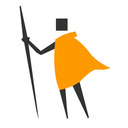
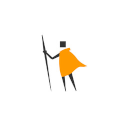
add shepherd and doggo(not work)

Changed region(s): [[0.125, 0.0312, 0.875, 0.9375]]

diff --git a/Project_SDL_Part1_base/Project_SDL1.cpp b/Project_SDL_Part1_base/Project_SDL1.cpp
@@ -23,8 +23,8 @@ void init() {
                              std::string(IMG_GetError()));
 }
 
-SDL_Surface *load_image(const std::string& file_path){
-  SDL_Surface *image_ptr_ = IMG_Load(file_path.c_str());
+SDL_Surface* load_image(const std::string& file_path) {
+  SDL_Surface* image_ptr_ = IMG_Load(file_path.c_str());
   if (!image_ptr_) {
     std::cout << "OOPS! The image " << file_path
               << " could not have been loaded" << std::endl;
@@ -227,6 +227,61 @@ void wolf::move() {
   }
 }
 
+shepherd::shepherd(SDL_Surface* window_surface_ptr) { // Ajout du berger
+  image_ptr_ = load_image("./media/shepherd.png");
+  window_surface_ptr_ = window_surface_ptr;
+  position_.x = 100;
+  position_.y = 100;
+  position_.w = image_ptr_->w / 2;
+  position_.h = image_ptr_->h / 2;
+}
+
+shepherd::~shepherd() { SDL_FreeSurface(image_ptr_); }
+
+void shepherd::move(const SDL_Event& event, bool keys[322]) {
+  // Gestion des touches
+  if (event.type == SDL_KEYDOWN) {
+    keys[event.key.keysym.scancode] = true;
+  } else if (event.type == SDL_KEYUP) {
+    keys[event.key.keysym.scancode] = false;
+  }
+
+  if (keys[SDL_SCANCODE_UP] || keys[SDL_SCANCODE_W]) // W -> Z on AZERTY
+  {
+    if (position_.y > 0)
+      position_.y -= 3;
+  }
+  if (keys[SDL_SCANCODE_DOWN] || keys[SDL_SCANCODE_S]) {
+    if (position_.y < frame_height - position_.h)
+      position_.y += 3;
+  }
+  if (keys[SDL_SCANCODE_LEFT] || keys[SDL_SCANCODE_A]) // A -> Q on AZERTY
+  {
+    if (position_.x > 0)
+      position_.x -= 3;
+  }
+  if (keys[SDL_SCANCODE_RIGHT] || keys[SDL_SCANCODE_D]) {
+    if (position_.x < frame_width - position_.w)
+      position_.x += 3;
+  }
+
+  SDL_BlitScaled(image_ptr_, NULL, window_surface_ptr_, &position_);
+}
+
+shepherd_dog::shepherd_dog(SDL_Surface* window_surface_ptr,
+                           const shepherd& master) {
+  image_ptr_ = load_image("./media/shepherd_dog.png");
+  window_surface_ptr_ = window_surface_ptr;
+  position_.x = 31;
+  position_.y = 31;
+  position_.w = image_ptr_->w;
+  position_.h = image_ptr_->h;
+}
+
+shepherd_dog::~shepherd_dog() { SDL_FreeSurface(image_ptr_); }
+
+void shepherd_dog::move(const shepherd& master) {}
+
 // ---------------- ground class impl ----------------
 
 ground::ground(SDL_Surface* window_surface_ptr) {
@@ -328,54 +383,21 @@ application::~application() {
 
 int application::loop(unsigned period) {
   SDL_Rect windowsRect = SDL_Rect{0, 0, frame_width, frame_height};
+  shepherd player = shepherd(window_surface_ptr_);
+  shepherd_dog doggo = shepherd_dog(window_surface_ptr_, player);
 
-  bool keys[322] = {false}; // 322 is the number of scancodes
-
-  // Ajout du berger
-  SDL_Surface* image_ptr_ = IMG_Load("./media/shepherd.png");
-
-  SDL_Rect position_ = SDL_Rect{100, 100, image_ptr_->w, image_ptr_->h};
-
+  bool keys[322] = {false};
   SDL_UpdateWindowSurface(window_ptr_);
   while (period * 1000 >= SDL_GetTicks()) {
     SDL_FillRect(window_surface_ptr_, &windowsRect,
                  SDL_MapRGB(window_surface_ptr_->format, 0, 255, 0));
     SDL_PollEvent(&window_event_);
-    SDL_BlitScaled(image_ptr_, NULL, window_surface_ptr_, &position_);
     if (window_event_.type == SDL_QUIT ||
         window_event_.type == SDL_WINDOWEVENT &&
             window_event_.window.event == SDL_WINDOWEVENT_CLOSE)
       break;
 
-    // Gestion des touches
-    if(window_event_.type == SDL_KEYDOWN){
-      keys[window_event_.key.keysym.scancode] = true;
-    }
-    else if(window_event_.type == SDL_KEYUP){
-      keys[window_event_.key.keysym.scancode] = false;
-    }
-
-    if(keys[SDL_SCANCODE_UP] || keys[SDL_SCANCODE_W]) // W -> Z on AZERTY
-    {
-      if(position_.y > 0)
-        position_.y -= 5;  
-    }
-    if(keys[SDL_SCANCODE_DOWN] || keys[SDL_SCANCODE_S])
-    {
-      if(position_.y < frame_height - image_ptr_->h)
-        position_.y += 5;
-    }
-    if(keys[SDL_SCANCODE_LEFT] || keys[SDL_SCANCODE_A]) // A -> Q on AZERTY
-    {
-      if(position_.x > 0)
-        position_.x -= 5; 
-    }
-    if(keys[SDL_SCANCODE_RIGHT] || keys[SDL_SCANCODE_D])
-    {
-      if(position_.x < frame_width - image_ptr_->w)
-        position_.x += 5;   
-    }
-
+    player.move(window_event_, keys);
     ground_->update();
     SDL_UpdateWindowSurface(window_ptr_);
     SDL_Delay(frame_time * 1000); // Pause execution for framerate milliseconds

diff --git a/Project_SDL_Part1_base/Project_SDL1.h b/Project_SDL_Part1_base/Project_SDL1.h
@@ -86,6 +86,30 @@ public:
 // Use only sheep at first. Once the application works
 // for sheep you can add the wolves
 
+class shepherd {
+public:
+  SDL_Surface* window_surface_ptr_; // ptr to the surface on which we want the
+  shepherd(SDL_Surface* window_surface_ptr);
+  ~shepherd();
+  void move(const SDL_Event& event, bool keys[322]);
+
+private:
+  SDL_Surface* image_ptr_; // The texture of the sheep (the loaded image), use
+  SDL_Rect position_;
+};
+
+class shepherd_dog {
+public:
+  SDL_Surface* window_surface_ptr_; // ptr to the surface on which we want the
+  shepherd_dog(SDL_Surface* window_surface_ptr, const shepherd& master);
+  ~shepherd_dog();
+  void move(const shepherd& master);
+
+private:
+  SDL_Surface* image_ptr_; // The texture of the sheep (the loaded image), use
+  SDL_Rect position_;
+};
+
 // The "ground" on which all the animals live (like the std::vector
 // in the zoo example).
 class ground {
